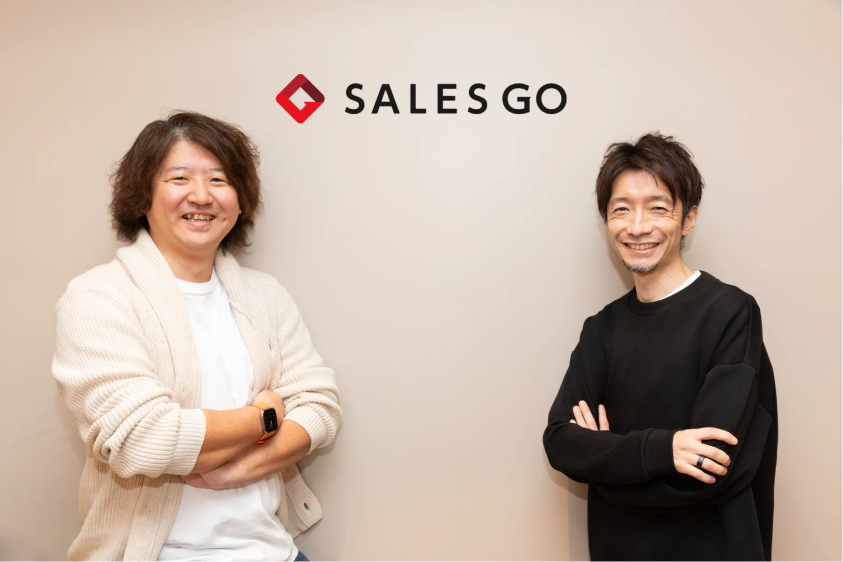
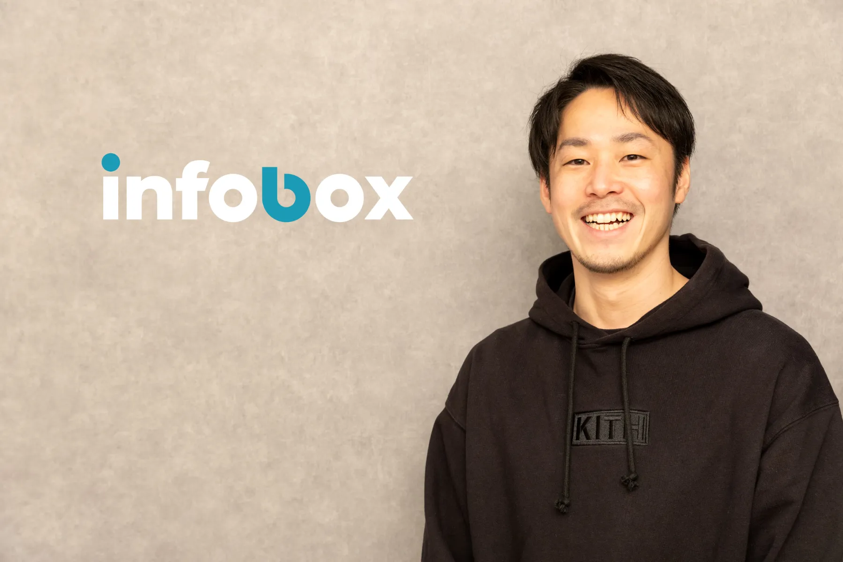
anyflow v3: 開発者体験2の出入りをdev1と一致(スクロール位置駆動)＋事例写真ほか
■ dev2の「変なスクロールリプレイ/急に消える」を根治
- 原因: dev2は kBlock 越えで時間クロック(dev2SeqT0)を起動し、見出し→モック→右を
  時間再生していた。上に戻ると時計が-1にリセット→パッと消える/再入場で再生し直す。
- 修正: dev1 と同じ【スクロール位置駆動】に統一。revealK(位置)で3要素をずらして
  出す=出入りが対称でなめらか。時間クロックは語カルーセルの回転専用に限定
  (箱が開いてから回るだけ=出入りの見た目に影響しない)。
- 実測: 同一スクロール位置で常に同じ表示(戻っても同値=時間ヒステリシス無し)を確認。

■ 調整パネル(dev2)
- ビューポート基準を追加(下部/中央=dev1同/上部)= vpMode
- 箱が左右に分かれ始めるタイミング splitAt を追加
- スロット切替モーションを3種追加(横押し/ズーム/キューブ)=計6種
- 使わなくなった「語のホールド」スライダーを整理

■ 導入事例4つ目の写真をインフォボックス実写に差し替え(Figma 15926-38859、843×562)
■ CLI/SDK/APIボックスの角丸を除去(border-radius:0)
■ モックSDK画面の右カラム「SDK Reference」を削除(JS依存はnullガード)

diff --git a/anyflow/v3/index.html b/anyflow/v3/index.html
@@ -766,7 +766,7 @@
      既定(list案・slide発火前)は width:0 で隠れ、「開発環境に柔軟に適応」と連続表示になる。 */
   .dc-one .ds-w { display: inline; }
   .dc-one .ds-box { display: inline-flex; vertical-align: middle; align-items: center; justify-content: center;
-    overflow: hidden; height: 42px; border-radius: 8px; background: rgba(255,255,255,.09); width: 0; }
+    overflow: hidden; height: 42px; border-radius: 0; background: rgba(255,255,255,.09); width: 0; }  /* 2026-08-29 ヒデさん指定: 角丸なし */
   .dc-one .ds-roll { position: relative; height: 34px; width: 100%; }
   .dc-one .ds-word { position: absolute; inset: 0; display: flex; align-items: center; justify-content: center;
     font-family: var(--font-en); font-weight: 200; font-size: 34px; letter-spacing: 1.7px; color: #fff; white-space: nowrap;
@@ -2147,10 +2147,7 @@
               </div>
               <div class="dm-code code" id="dmCodeSdk"></div>
             </div>
-            <div class="dm-sdk">
-              <div class="dm-chat-head"><span class="ttl"><img src="assets/mock/sparkles.svg" alt="">SDK Reference</span><img src="assets/mock/ellipsis.svg" alt=""></div>
-              <div class="dm-sdk-list" id="dmSdkList2"></div>
-            </div>
+            <!-- 【2026-08-29 ヒデさん指定】SDK画面の右カラム「SDK Reference」は削除。左のコード画面のみ。 -->
           </div>
         </div>
         <!-- 【2026-08-29 ヒデさん指定】「APIの場合」モックを復活。左のコード画面だけ(右のAIチャットは無し)。 -->
@@ -2988,7 +2985,10 @@ const DEFAULTS = {
        slideMotion=箱の切替モーション(snap/flip/blur)、slideHold=各語をホールドする割合、slideSnapK=スナップのキレ。 */
     dev:     { lenVh: 200, driveLen: 3.0, swapBlur: 14, stackDur: 1.3, swapEase: 1,
                ds2: 'slide', slideMotion: 'snap', slideHold: 0.62, slideSnapK: 3.4,   /* 2026-08-29: テキストスライドを既定に */
-               slideEvery: 3.0, slideDur: 0.5 },   /* 自動スロットの間隔と切替時間(秒) */
+               slideEvery: 3.0, slideDur: 0.5,   /* 自動スロットの間隔と切替時間(秒) */
+               /* 【2026-08-29 ヒデさん指定】dev2の出入りを dev1 と同じスクロール位置駆動に。
+                  vpMode=出しきる基準位置(bottom=早め/center=中央/top=遅め)、splitAt=箱が左右に分かれ始めるスクロール位置(0〜1)。 */
+               vpMode: 'center', splitAt: 0.35 },
     /* 【2026-08-25 刷新・カンプ 15800:24526/24258】導入事例 = 2×2グリッド。
        見出し(ブラー) → 水平線3本が左から(上→下でディレイ) → 中央の垂直線 → カード4枚がブラーで登場。 */
     cases:   { lenVh: 200, driveLen: 3.0, playSec: 2.0, inBlur: 20,
@@ -8646,7 +8646,7 @@ function dmAnimScreen(screen, ts) {
   }
   /* SDK: 右の一覧も1行ずつ (手前に来るのはゴースト側の一覧) */
   if (screen === 'sdk') {
-    if (!dm2SdkRows2) dm2SdkRows2 = [...document.getElementById('dmSdkList2').children];
+    if (!dm2SdkRows2) { const _sl = document.getElementById('dmSdkList2'); dm2SdkRows2 = _sl ? [..._sl.children] : []; }  /* 2026-08-29: SDK Reference 列を削除したので無い場合あり */
     dm2SdkRows2.forEach((el, i) => {
       const k = easeOutQ(clamp01((ts - DM2.rowsAt - i * DM2.rowGap) / DM2.lineDur));
       setStyle(el, 'opacity', (k * (1 - outK)).toFixed(3));   /* コードと一緒に消えて、一緒に出直す */
@@ -8698,7 +8698,7 @@ dmBuildScreen('editor');
 dmFillStatic('dmCodeCli', 'cli');
 dmFillStatic('dmCodeSdk', 'sdk');
 dmFillStatic('dmCodeApi', 'api');   /* 【2026-08-29】APIゴーストのコードを充填 */
-dmFillSdkList('dmSdkList2');
+if (document.getElementById('dmSdkList2')) dmFillSdkList('dmSdkList2');  /* 2026-08-29: SDK Reference 列は削除したので存在時のみ */
 /* dev1(Strength01) 用に本体パネルを複製して単体で置く（中身は同じエディタ+チャット）。 */
 let dev1Refs = null;   /* dev1(章①)の複製パネルの参照。updateDev がループ駆動に使う */
 (function cloneDev1Panel() {
@@ -8988,20 +8988,21 @@ function dsFillStaticAll() {
 /* 【2026-08-29 ヒデさん指定・改】スクロール連動をやめて【時間駆動の自動カルーセル】に。
    ビューポートに入ったら(=dev2の入場クロック s)、①語が左右に分かれて箱がマスクで開く →
    ②CLI→SDK→API と一定間隔(slideEvery)で自動で切り替わり続ける(ループ)。モックも同期。 */
-function updateDevSlide(s) {
+/* 【2026-08-29 改】箱の開き(左右に分かれる)はスクロール駆動(openK)、語の CLI→SDK→API 切替は
+   時間駆動の自動カルーセル(s)。openK/s は updateDev2Reveal が算出して渡す。 */
+function updateDevSlide(openK, s) {
   const d = params.sections.dev;
   if (!dsEls.box) return;
-  if (s < 0) { dsResetBox(); return; }
-  /* ① 入場から少し置いて(見出しが出たあと)、語が左右に開いて箱が出る */
-  const open = clamp01((s - 0.55) / 0.55), oe = 1 - Math.pow(1 - open, 3);
-  dsEls.box.style.width = (DS_BOX_W * oe).toFixed(1) + 'px';
-  dsEls.box.style.margin = oe > 0.02 ? '0 12px' : '0';
-  /* ② 自動スロット: 箱が開ききってから、slideEvery 秒ごとに次の語へ(ループ) */
+  /* ① 箱が左右に分かれて開く = スクロール位置(openK 0→1)。 */
+  const ok = clamp01(openK);
+  dsEls.box.style.width = (DS_BOX_W * ok).toFixed(1) + 'px';
+  dsEls.box.style.margin = ok > 0.02 ? '0 12px' : '0';
+  /* ② 語の自動カルーセル = 時間 s。箱が開ききって一呼吸おいてから回り始める。 */
   const N = DS_WORDS.length;
   const every = Math.max(1.2, d.slideEvery != null ? d.slideEvery : 3.0);
   const dur = Math.max(0.2, Math.min(every - 0.3, d.slideDur != null ? d.slideDur : 0.5));
-  const tSlot = s - (0.55 + 0.55 + 0.25);   /* 箱が開ききって一呼吸おいてから回り始める */
   let idx = 0, tr = 0;
+  const tSlot = (s < 0 || ok < 0.9) ? -1 : s - 0.35;
   if (tSlot > 0) {
     const cyc = tSlot / every;
     idx = Math.floor(cyc) % N;
@@ -9011,55 +9012,79 @@ function updateDevSlide(s) {
   }
   const nextIdx = (idx + 1) % N;
   dsEls.out.textContent = DS_WORDS[idx]; dsEls.in.textContent = DS_WORDS[nextIdx];
-  const motion = d.slideMotion || 'snap';
-  const e = motion === 'snap' ? dsSnapEase(tr, d.slideSnapK || 3.4) : tr;
-  if (motion === 'snap') {
-    dsEls.out.style.transform = `translateY(${(-e * DS_WH).toFixed(1)}px)`; dsEls.out.style.opacity = '1'; dsEls.out.style.filter = '';
-    dsEls.in.style.transform = `translateY(${((1 - e) * DS_WH).toFixed(1)}px)`; dsEls.in.style.opacity = '1'; dsEls.in.style.filter = '';
-  } else if (motion === 'flip') {
-    dsEls.roll.style.perspective = '300px';
-    dsEls.out.style.transform = `rotateX(${(e * 90).toFixed(1)}deg)`; dsEls.out.style.opacity = (1 - Math.min(1, e * 1.6)).toFixed(2); dsEls.out.style.filter = '';
-    dsEls.in.style.transform = `rotateX(${(-(1 - e) * 90).toFixed(1)}deg)`; dsEls.in.style.opacity = Math.min(1, e * 1.6).toFixed(2); dsEls.in.style.filter = '';
-  } else {
-    dsEls.out.style.transform = 'none'; dsEls.out.style.opacity = (1 - e).toFixed(2); dsEls.out.style.filter = `blur(${(e * 7).toFixed(1)}px)`;
-    dsEls.in.style.transform = 'none'; dsEls.in.style.opacity = e.toFixed(2); dsEls.in.style.filter = `blur(${((1 - e) * 7).toFixed(1)}px)`;
-  }
+  applyDsMotion(d.slideMotion || 'snap', tr, d);
   const shownIdx = tr >= 0.5 ? nextIdx : idx;
   const scr = DS_SCREENS[shownIdx];
   if (devScreen2 !== scr) { devScreen2 = scr; }   /* カルーセルが updateDev2Stack で同期して回る */
+}
+/* スロット(語)の切替モーション。スナップ/フリップ/ブラー＋横押し/ズーム/キューブ(2026-08-29 +3種)。 */
+function applyDsMotion(motion, tr, d) {
+  const o = dsEls.out, ins = dsEls.in, H = DS_WH, W = DS_BOX_W;
+  const e = motion === 'snap' ? dsSnapEase(tr, d.slideSnapK || 3.4) : tr;
+  o.style.filter = ''; ins.style.filter = '';
+  if (motion === 'flip') {
+    dsEls.roll.style.perspective = '300px';
+    o.style.transform = `rotateX(${(e * 90).toFixed(1)}deg)`; o.style.opacity = (1 - Math.min(1, e * 1.6)).toFixed(2);
+    ins.style.transform = `rotateX(${(-(1 - e) * 90).toFixed(1)}deg)`; ins.style.opacity = Math.min(1, e * 1.6).toFixed(2);
+  } else if (motion === 'blur') {
+    o.style.transform = 'none'; o.style.opacity = (1 - e).toFixed(2); o.style.filter = `blur(${(e * 7).toFixed(1)}px)`;
+    ins.style.transform = 'none'; ins.style.opacity = e.toFixed(2); ins.style.filter = `blur(${((1 - e) * 7).toFixed(1)}px)`;
+  } else if (motion === 'push') {
+    o.style.transform = `translateX(${(-e * W).toFixed(1)}px)`; o.style.opacity = (1 - e).toFixed(2);
+    ins.style.transform = `translateX(${((1 - e) * W).toFixed(1)}px)`; ins.style.opacity = e.toFixed(2);
+  } else if (motion === 'zoom') {
+    o.style.transform = `scale(${(1 - 0.5 * e).toFixed(3)})`; o.style.opacity = (1 - e).toFixed(2);
+    ins.style.transform = `scale(${(0.5 + 0.5 * e).toFixed(3)})`; ins.style.opacity = e.toFixed(2);
+  } else if (motion === 'cube') {
+    dsEls.roll.style.perspective = '340px';
+    o.style.transform = `rotateY(${(e * 90).toFixed(1)}deg)`; o.style.opacity = (1 - Math.min(1, e * 1.5)).toFixed(2);
+    ins.style.transform = `rotateY(${(-(1 - e) * 90).toFixed(1)}deg)`; ins.style.opacity = Math.min(1, e * 1.5).toFixed(2);
+  } else { // snap
+    o.style.transform = `translateY(${(-e * H).toFixed(1)}px)`; o.style.opacity = '1';
+    ins.style.transform = `translateY(${((1 - e) * H).toFixed(1)}px)`; ins.style.opacity = '1';
+  }
 }
 function dsResetBox() { if (dsEls.box) { dsEls.box.style.width = '0'; dsEls.box.style.margin = '0'; } }
 
 function updateDev2Reveal() {
   const b2 = devEls.block2; if (!b2) return;
   if (!dev2StackEl) dev2StackEl = b2.querySelector('.dev2-stack');
+  const d = params.sections.dev;
   /* 【2026-08-29】テキストスライド案の切替: #dev に .ds2-slide を付け、箱アニメを駆動、モックは静止。 */
-  const slide = params.sections.dev.ds2 === 'slide';
+  const slide = d.ds2 === 'slide';
   if (devEls.sec) devEls.sec.classList.toggle('ds2-slide', slide);
   const vh = innerHeight || 1;
   const r = rectOf(b2);
-  const centerY = r.top + r.height / 2;
-  const kBlock = easeOutQ(clamp01((vh - centerY) / (vh * 0.5)));   // ブロックが画面に入った度合い
-  /* 親ブロックは出しっぱなし(不透明1)。中の3要素を順にブラー出現させる */
+  const refY = r.top + r.height / 2;   // ブロック中心
+  /* 【2026-08-29 ヒデさん指定・重要修正】dev2 の出入りを dev1 と同じ【スクロール位置駆動】に統一。
+     以前は kBlock を越えた瞬間に時計(dev2SeqT0)で見出し→モック→右を再生していたため、上に戻ると
+     時計が -1 にリセットされて【パッと消える／変なスクロールリプレイ】になっていた。
+     ここでは revealK(スクロール位置)で3要素をずらして出す＝出も入りもなめらか＆対称。
+     vpMode=出しきる基準位置(bottom=早め/center=dev1と同じ/top=遅め)。 */
+  const FULL = { bottom: 0.72, center: 0.58, top: 0.44 };
+  const full = FULL[d.vpMode] || FULL.center;   // ブロック中心がこの高さ(画面上端からの割合)まで来たら出しきり
+  const revealK = easeOutQ(clamp01((vh - refY) / (vh * (1 - full))));
   b2.style.opacity = '1'; b2.style.filter = ''; b2.style.transform = '';
-  if (kBlock > 0.35) { if (dev2SeqT0 == null) dev2SeqT0 = elapsed; }
-  else if (kBlock < 0.05) dev2SeqT0 = null;
-  const s = dev2SeqT0 == null ? -1 : elapsed - dev2SeqT0;
-  const kHead = s < 0 ? 0 : easeOutQ(clamp01(s / 0.6));            // ① 見出し(親ボックス)
-  const kMock = s < 0 ? 0 : easeOutQ(clamp01((s - 0.45) / 0.6));   // ② モック
-  const kList = s < 0 ? 0 : easeOutQ(clamp01((s - 0.95) / 0.6));   // ③ 右テキスト
+  const stag = (a, b) => easeOutQ(clamp01((revealK - a) / (b - a)));
+  const kHead = stag(0.00, 0.55);   // ① 見出し
+  const kMock = stag(0.20, 0.82);   // ② モック
+  const kList = stag(0.42, 1.00);   // ③ 右テキスト
   revealEl(devEls.h2, kHead, 16, 24);
-  /* 【2026-08-26 ヒデさん指定】親ボックス(モック)は最初から出さず、ブラーでフェードイン。
-     .dm-panel は濃い下地も敷いているので、親 blur で backdrop-filter が一瞬切れても見た目は変わらない。 */
   revealEl(dev2StackEl, kMock, 16, 0);
   revealEl(devEls.list, kList, 16, 24);
-  /* モックはブロックが見えている間ずっと回す（API=本体 / CLI・SDK=ゴーストも同期して回す） */
-  const on = kBlock > 0.35;
+  const on = revealK > 0.35;
   if (slide) {
-    /* テキストスライド案: モック内アニメーションはオフ(全要素を出しきった静止状態)。
-       箱(CLI/SDK/API)はビューポート入場で発火する時間駆動の自動カルーセル。 */
+    /* テキストスライド案: モック内アニメーションはオフ(全要素を出しきった静止状態)。 */
     dsFillStaticAll();
-    updateDevSlide(s);   /* s = 入場からの経過秒(dev2SeqT0)。入場前は -1 */
+    /* 箱が左右に分かれて開く = スクロール(reveal)駆動。splitAt で開き始めを調整。 */
+    const splitAt = d.splitAt != null ? d.splitAt : 0.35;
+    const openK = easeOutQ(clamp01((revealK - splitAt) / 0.34));
+    /* 語 CLI→SDK→API の切替 = 時間駆動の自動カルーセル。十分見えている間だけ時計を進める。
+       (箱が開いてから回るだけ＝出入りの見た目には影響しない＝リプレイ感を出さない) */
+    if (revealK > 0.55) { if (dev2SeqT0 == null) dev2SeqT0 = elapsed; }
+    else if (revealK < 0.12) dev2SeqT0 = null;
+    const s = dev2SeqT0 == null ? -1 : elapsed - dev2SeqT0;
+    updateDevSlide(openK, s);
   } else {
     dsResetBox();
     driveEditorLoop(null, on, 'dev2');
@@ -12835,16 +12860,25 @@ function buildPanel() {
   pillRow([{ key: 'list', name: 'リスト（現行）' }, { key: 'slide', name: 'テキストスライド' }],
     it => (sv().dev.ds2 || 'list') === it.key,
     it => { sv().dev.ds2 = it.key; ds2Note(); renderFrame(); }, null, { noRebuild: true });
-  note('↓ テキストスライド案の切替モーション（見出しの箱）。');
+  sub(catDev, '② の出入り（スクロール位置）');
+  note('② は dev1 と同じくスクロール位置で出入りします（時間再生ではないので上に戻っても急に消えません）。');
+  const dsVpNote = noteLive(() => { const m = sv().dev.vpMode || 'center';
+    return m === 'bottom' ? '下部基準: 画面に入ってすぐ出しきる（早め）。' : m === 'top' ? '上部基準: 中央より上まで来てから出しきる（遅め）。' : '中央基準: dev1 と同じタイミング。'; });
+  pillRow([{ key: 'bottom', name: '下部で出す' }, { key: 'center', name: '中央で出す' }, { key: 'top', name: '上部で出す' }],
+    it => (sv().dev.vpMode || 'center') === it.key,
+    it => { sv().dev.vpMode = it.key; dsVpNote(); renderFrame(); }, null, { noRebuild: true });
+  rows.push(slider('箱が左右に分かれ始める', 0, 0.9, 0.02, () => sv().dev.splitAt, v => sv().dev.splitAt = v, v => Math.round(v * 100) + '%',
+    'スクロールで何割出たら CLI/SDK/API の箱が左右に開き始めるか。小さいほど早く開きます。'));
+
+  sub(catDev, 'スロット（語の切替モーション）');
+  note('↓ CLI→SDK→API の入れ替わりモーション（6種）。');
   const dsMotNote = noteLive(() => { const m = sv().dev.slideMotion || 'snap';
-    return m === 'flip' ? 'フリップ: 縦に3Dで倒れて入れ替わる。' : m === 'blur' ? 'ブラー: ぼけながら入れ替わる。' : 'スナップ: ホールド→素早く縦に切替（メリハリ）。'; });
-  pillRow([{ key: 'snap', name: 'スナップ' }, { key: 'flip', name: 'フリップ' }, { key: 'blur', name: 'ブラー' }],
+    return ({ snap: 'スナップ: ホールド→素早く縦に切替（メリハリ）。', flip: 'フリップ: 縦に3Dで倒れて入れ替わる。', blur: 'ブラー: ぼけながら入れ替わる。', push: '横押し: 左へ抜け、右から入る。', zoom: 'ズーム: 縮んで消え、拡大して現れる。', cube: 'キューブ: 横に3D回転して入れ替わる。' })[m] || ''; });
+  pillRow([{ key: 'snap', name: 'スナップ' }, { key: 'flip', name: 'フリップ' }, { key: 'blur', name: 'ブラー' }, { key: 'push', name: '横押し' }, { key: 'zoom', name: 'ズーム' }, { key: 'cube', name: 'キューブ' }],
     it => (sv().dev.slideMotion || 'snap') === it.key,
     it => { sv().dev.slideMotion = it.key; dsMotNote(); renderFrame(); }, null, { noRebuild: true });
-  rows.push(slider('語のホールド', 0.3, 0.9, 0.02, () => sv().dev.slideHold, v => sv().dev.slideHold = v, v => Math.round(v * 100) + '%',
-    '各語を止めておく割合。大きいほど切替がキビキビ(短い区間で一気に)。'));
   rows.push(slider('スナップのキレ', 1, 6, 0.2, () => sv().dev.slideSnapK, v => sv().dev.slideSnapK = v, v => '×' + v.toFixed(1),
-    'スナップの切替の急さ。大きいほどメリハリが強く。'));
+    'スナップの切替の急さ。大きいほどメリハリが強く（スナップ選択時）。'));
   rows.push(slider('自動で切り替わる間隔', 1.5, 8, 0.1, () => sv().dev.slideEvery, v => sv().dev.slideEvery = v, v => v.toFixed(1) + '秒',
     'CLI→SDK→API が自動で次へ進む間隔。'));
   rows.push(slider('切り替えにかける時間', 0.2, 1.5, 0.05, () => sv().dev.slideDur, v => sv().dev.slideDur = v, v => v.toFixed(2) + '秒',
